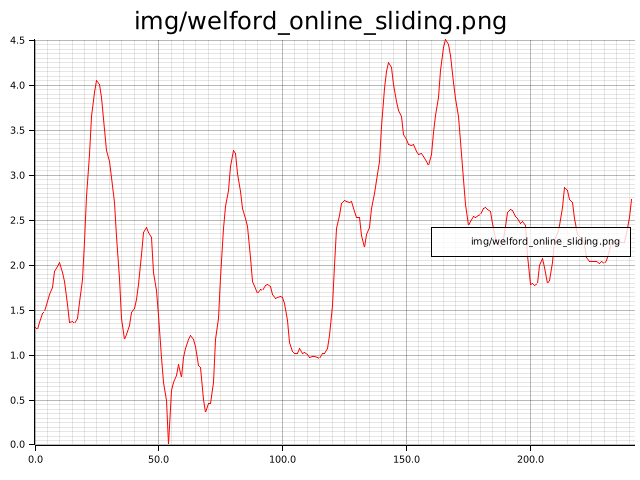
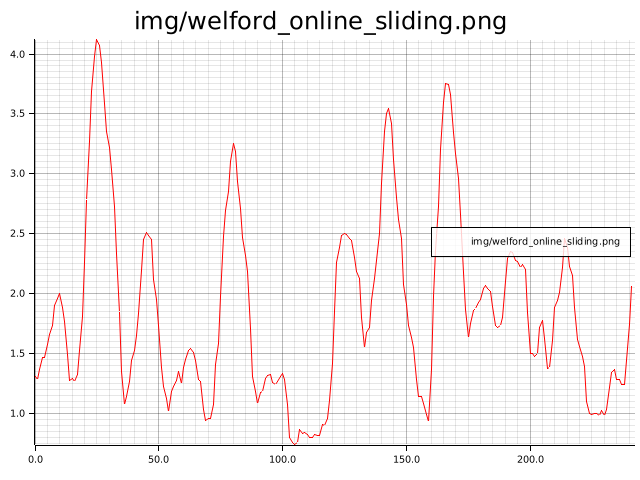
fix welford formula for removing values

Changed region(s): [[0.0, 0.0625, 1.0, 0.9375]]

diff --git a/src/sliding_windows/welford_online.rs b/src/sliding_windows/welford_online.rs
@@ -54,10 +54,29 @@ where
 
     #[inline]
     fn update_stats_remove(&mut self, old_value: T) {
-        let delta = old_value - self.mean;
-        self.mean = self.mean - (delta / T::from(self.count).unwrap());
-        self.m2 = self.m2 - (delta * (old_value - self.mean));
+        // Derive sum and sum-of-squares from Welford state:
+        //   mean = sum / n,  m2 = sum_sq - n * mean^2
+        //   => sum = n * mean,  sum_sq = m2 + n * mean^2
+        let n = T::from(self.count).unwrap();
+        let sum = self.mean * n;
+        let sum_sq = self.m2 + sum * self.mean;
+
+        let sum_new = sum - old_value;
+        let sum_sq_new = sum_sq - old_value * old_value;
         self.count -= 1;
+
+        if self.count > 0 {
+            let n_new = T::from(self.count).unwrap();
+            self.mean = sum_new / n_new;
+            self.m2 = sum_sq_new - n_new * self.mean * self.mean;
+            // Clamp floating-point noise that could push m2 slightly negative.
+            if self.m2 < T::zero() {
+                self.m2 = T::zero();
+            }
+        } else {
+            self.mean = T::zero();
+            self.m2 = T::zero();
+        }
     }
 
     /// Return the variance of the sliding window
@@ -137,6 +156,47 @@ mod tests {
         .sqrt();
 
         assert_eq!(round(w_std_dev, 4), round(std_dev, 4));
+    }
+
+    #[test]
+    fn welford_online_sliding_matches_direct_computation() {
+        // Feed [1, 2, 3, 4, 5, 6] through a window of length 3.
+        // After each step, verify the std dev matches the direct formula for
+        // the window contents.
+        let mut wo = WelfordOnline::new(Echo::new(), NonZeroUsize::new(3).unwrap());
+        let all: Vec<f64> = vec![1.0, 2.0, 3.0, 4.0, 5.0, 6.0];
+
+        // Direct std-dev helper (sample sd).
+        let direct_sd = |vs: &[f64]| -> f64 {
+            let n = vs.len() as f64;
+            let m = vs.iter().sum::<f64>() / n;
+            let var = vs.iter().map(|v| (v - m).powi(2)).sum::<f64>() / (n - 1.0);
+            var.sqrt()
+        };
+
+        for i in 0..all.len() {
+            wo.update(all[i]);
+            let start = if i < 2 { 0 } else { i - 2 }; // i+1-window
+            let window = &all[start..=i];
+            let expected = direct_sd(&window);
+            if let Some(got) = wo.last() {
+                let diff = (got - expected).abs();
+                if diff > 1e-12 {
+                    panic!(
+                        "step {} window {:?}: expected sd={}, got={}, diff={}",
+                        i, window, expected, got, diff
+                    );
+                }
+            } else {
+                // window not full yet → None is correct for i < 2
+                assert!(
+                    i < 2,
+                    "step {}: got None but window is full ({:?})",
+                    i,
+                    window
+                );
+            }
+        }
     }
 
     #[test]
